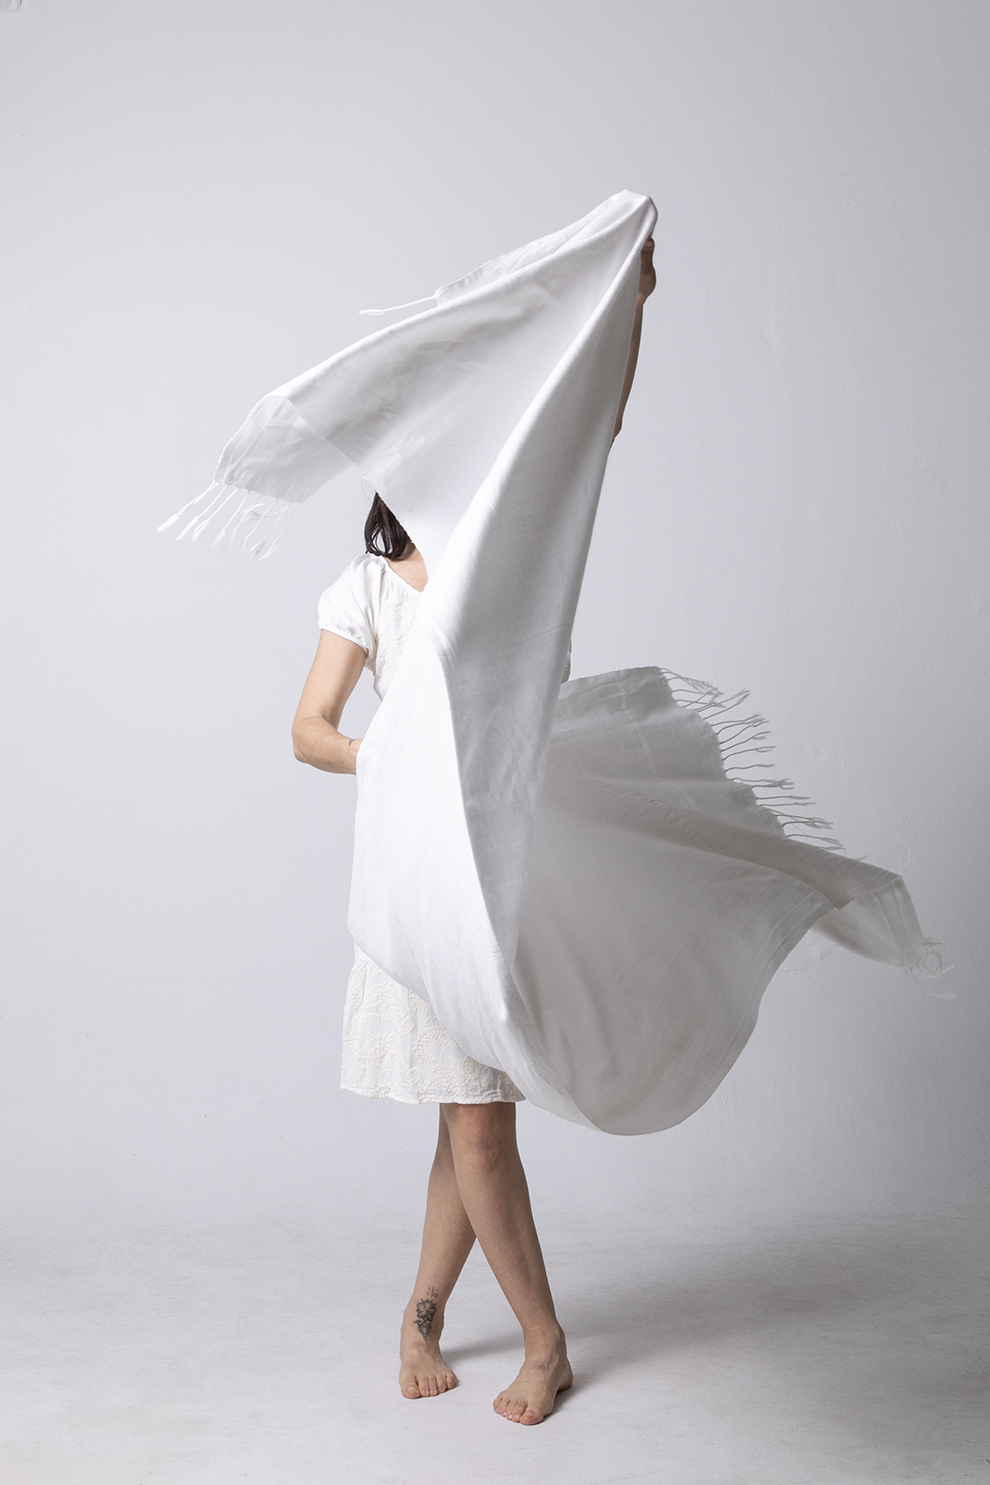
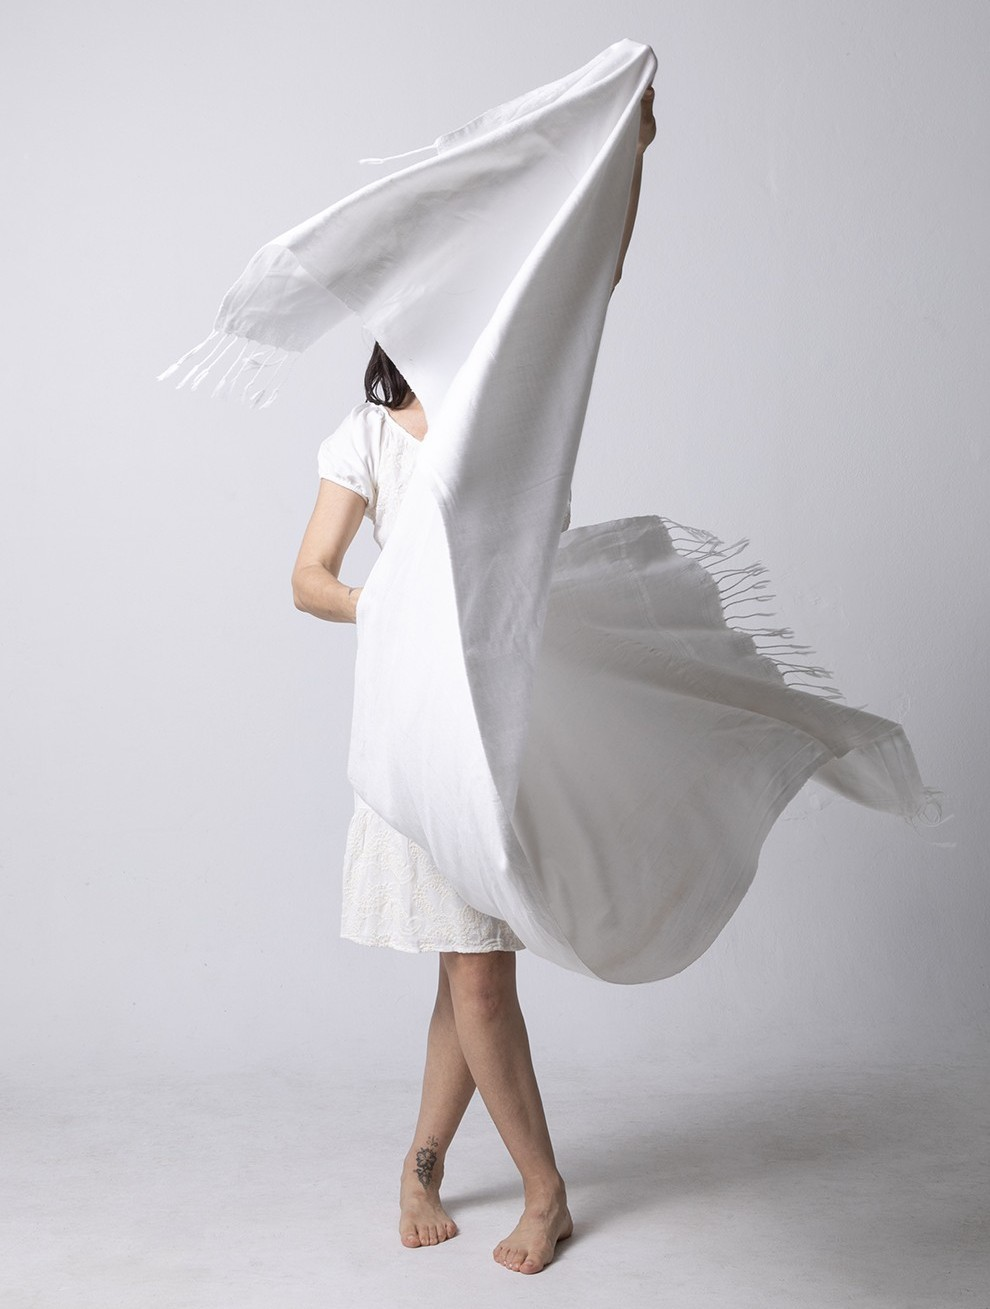
update size divs & images

Changed region(s): [[0.2424, 0.0306, 0.9394, 0.7945], [0.3939, 0.8556, 0.6364, 0.9778], [0.3939, 0.6417, 0.4545, 0.6723]]

diff --git a/html/conoceme.html b/html/conoceme.html
@@ -43,7 +43,7 @@
 
                     <!-- Menú (Flex en pantallas grandes) -->
                     <div id="menu"
-                        class="absolute top-full right-0 w-full text-xl md:text-2xl md:relative md:flex md:items-center md:justify-end bg-white overflow-hidden max-h-0 transition-all duration-300 ease-in-out md:max-h-full md:w-auto md:top-0 md:static">
+                        class="absolute top-full right-0 w-full text-xl lg:text-2xl md:relative md:flex md:items-center md:justify-end bg-white overflow-hidden max-h-0 transition-all duration-300 ease-in-out md:max-h-full md:w-auto md:top-0 md:static">
                         <a href="../index.html" class="block font-bold text-center p-2 menu-items md:px-4">Inicio</a>
                         <a href="../html/servicios.html"
                             class="block font-bold text-center p-2 menu-items md:px-4">Servicios</a>
@@ -58,17 +58,17 @@
 
         </header>
 
-        <main id="main-conoceme" class="px-3">
+        <main id="main-conoceme" class="px-3 md:px-20 lg:px-32 xl:px-44">
 
             <h1 class="titulo-parrafo-1 text-3xl p-2 font-bold text-center mb-3 rounded-xl">
                 Conoceme
             </h1>
 
-            <img src="../media/conoceme3.jpeg" alt="">
+            <img src="../media/conoceme1.jpeg" alt="jessi carmona foto" class="mx-auto lg:w-2/3">
 
             <br>
 
-            <p class="text-justify">
+            <p class="text-justify lg:text-lg">
                 ¡Hola! Soy <em>Jessica María Carmona</em>; desde hace muchos años que he decidido abrazar mi energía creativa y
                 también emprendedora. La combinación de la creatividad de mi madre y la fortaleza que me transmitió mi
                 padre han enriquecido mi desarrollo vital, valores y visión de las ideas y proyectos.
@@ -91,15 +91,18 @@
                 florecería con el tiempo.
                 <br>
                 <br>
-                <img src="../media/conoceme1.jpg" alt="jessi carmona foto" class="w-50%">
+
+                <img src="../media/conoceme2.jpg" alt="jessi carmona foto" class="mx-auto lg:w-2/3">
+
+
                 <br>
                 Paralelamente me desempeñé como bailarina, profesora de danzas y métodos de acondicionamiento psicofísico. Durante un largo periodo aborde el campo de la salud a través de las artes expresivas, la conciencia corporal y la danzaterapia. Participe y también organicé talleres, charlas, seminarios, workshops nacionales e internacionales.
                 <br>
                 <br>
-                A raíz de un desequilibrio físico que marca un antes y un después en mi estilo de vida, empiezo a profundizar en el yoga y la meditación para recuperar el equilibrio interior. Me certifico como Profesora bajo la guía de maestros de la rica tradición y sistemas de enseñanza de India, quienes me han incentivado a compartir este camino con otros.
+                A raíz de un desequilibrio físico que marca un antes y un después en mi estilo de vida, empiezo a profundizar en el yoga y la meditación para recuperar el equilibrio interior. Me certifico como maestra de danzas bajo la guía de maestros de la rica tradición y sistemas de enseñanza de India, quienes me han incentivado a compartir este camino con otros durante 15 años.
                 <br>
                 <br>
-                En la actualidad, integro todos estos años de proceso de consciencia, más mi trabajo y estudio con el Árbol Genealógico. Comprendiendo y amando mi autobiografía; dejando de definirme e identificarme con una única identidad para contribuir desde el sentir y la totalidad que somos, promoviendo el empoderamiento y transformación personal.
+                En la actualidad, integro todos estos años de proceso de consciencia, mi labor como Acompañante Terapeutica y en el estudio del Arbol Genealogico. Comprendiendo y amando mi autobiografía; dejando de definirme e identificarme con una única identidad para contribuir desde el sentir y la totalidad que somos, promoviendo el empoderamiento y transformación personal.
                 <br>
                 <br>
                 Si has llegado hasta aquí, te invito a ser parte del Proyecto <strong>CreAndo Armonía en ComUnidad</strong>, donde te guio en el viaje que yo misma he transitando y sigo comprobando hacia una vida más plena a nuestro alcance y en armonía con nosotros mismos/as.

diff --git a/html/servicios.html b/html/servicios.html
@@ -43,7 +43,7 @@
 
                     <!-- Menú (Flex en pantallas grandes) -->
                     <div id="menu"
-                        class="absolute top-full right-0 w-full text-xl md:text-2xl md:relative md:flex md:items-center md:justify-end bg-white overflow-hidden max-h-0 transition-all duration-300 ease-in-out md:max-h-full md:w-auto md:top-0 md:static">
+                        class="absolute top-full right-0 w-full text-xl lg:text-2xl md:relative md:flex md:items-center md:justify-end bg-white overflow-hidden max-h-0 transition-all duration-300 ease-in-out md:max-h-full md:w-auto md:top-0 md:static">
                         <a href="../index.html" class="block font-bold text-center p-2 menu-items md:px-4">Inicio</a>
                         <a href="#" class="block font-bold text-center p-2 menu-items md:px-4">Servicios</a>
                         <a href="../html/consultoria.html"
@@ -58,7 +58,7 @@
 
         </header>
 
-        <main id="main-conoceme" class="p-3 pt-0">
+        <main id="main-conoceme" class="p-3 pt-0 md:px-20 lg:px-32 xl:px-44">
 
             <h1 class="titulo-parrafo-1 text-3xl p-2 font-bold text-center rounded-xl">
                 Servicios
@@ -76,7 +76,7 @@
 
             <br>
 
-            <div class="text-center frase-servicios">
+            <div class="text-center frase-servicios lg:text-lg">
                 <span>
                     <strong>"Mi búsqueda espiritual me ha permitido redescubrir mi esencia más genuina y la manera de
                         estar en el mundo, encontrar la verdadera paz y amor que residen en mí."
@@ -87,7 +87,7 @@
 
             <br>
 
-            <img src="../media/servicios4.jpg" alt="">
+            <img src="../media/servicios1.jpg" alt="jessi carmona foto" class="mx-auto lg:w-2/3">
 
             <h2 class="my-2 text-center">
                 TALLER VIVENCIAL GRUPAL
@@ -110,7 +110,7 @@
 
             <hr>
 
-            <div class="text-center frase-servicios">
+            <div class="text-center frase-servicios lg:text-lg">
                 <br>
                 <span>
                     <strong>"Al conectar con mis raíces y mi verdadero potencial, logré liberarme de viejas
@@ -123,7 +123,7 @@
 
             <br>
 
-            <img src="../media/servicios2.jpg" alt="">
+            <img src="../media/servicios2.jpg" alt="jessi carmona foto" class="mx-auto lg:w-2/3">
 
             <h2 class="my-2 text-center">
                 TALLER VIVENCIAL GRUPAL
@@ -146,7 +146,7 @@
 
             <hr>
 
-            <div class="text-center frase-servicios">
+            <div class="text-center frase-servicios lg:text-lg">
                 <br>
                 <span>
                     <strong>"El autoconocimiento y el autocuidado, junto con la comprensión de los ciclos naturales y la
@@ -159,7 +159,7 @@
 
             <br>
 
-            <img src="../media/servicios3.jpeg" alt="jess saltando y sonriendo">
+            <img src="../media/servicios3.jpeg" alt="jessi carmona foto" class="mx-auto lg:w-2/3">
 
             <h2 class="my-2 text-center">
                 TALLER VIVENCIAL GRUPAL

diff --git a/index.html b/index.html
@@ -43,7 +43,7 @@
 
                     <!-- Menú (Flex en pantallas grandes) -->
                     <div id="menu"
-                        class="absolute top-full right-0 w-full text-xl md:text-2xl md:relative md:flex md:items-center md:justify-end bg-white overflow-hidden max-h-0 transition-all duration-300 ease-in-out md:max-h-full md:w-auto md:top-0 md:static">
+                        class="absolute top-full right-0 w-full text-xl lg:text-2xl md:relative md:flex md:items-center md:justify-end bg-white overflow-hidden max-h-0 transition-all duration-300 ease-in-out md:max-h-full md:w-auto md:top-0 md:static">
                         <a href="#" class="block font-bold text-center p-2 menu-items md:px-4">Inicio</a>
                         <a href="./html/servicios.html"
                             class="block font-bold text-center p-2 menu-items md:px-4">Servicios</a>
@@ -61,15 +61,15 @@
 
         <main id="main-inicio">
 
-            <div class="px-3 md:px-12">
+            <div class="px-3 md:px-20 lg:px-32 xl:px-44">
                 <div
                     class="bg-[url('./media/home1.jpg')] relative bg-cover md:bg-contain md:bg-no-repeat bg-center h-screen inset-0 flex flex-col justify-start text-white pt-20">
 
-                    <h1 class="texto-principal-home text-2xl font-bold text-left mb-6 pl-6">
+                    <h1 class="texto-principal-home text-2xl font-bold text-left mb-6 pl-6 md:pl-14 lg:pl-24 xl:pl-54">
                         "EL VIAJE MÁS LARGO <br> COMIENZA CON <br> UN PRIMER PASO"
                     </h1>
 
-                    <div class="w-full text-left pl-6">
+                    <div class="w-full text-left pl-6 md:pl-14 lg:pl-24 xl:pl-54">
                         <a class="btn-home mb-3 p-3 rounded-xl font-semibold w-auto inline-block"
                             href="./html/consultoria.html">
                             QUIERO EMPEZAR
@@ -79,18 +79,18 @@
                 </div>
             </div>
 
-            <div class="flex flex-col items-center justify-center p-3 md:px-12">
+            <div class="flex flex-col items-center justify-center p-3 md:px-20 lg:px-32 xl:px-44">
 
                 <h2 class="text-3xl mb-3 p-2 text-center font-bold titulo-parrafo-1 rounded-xl">
                     CreAndo Armonía Comunidad
 
                 </h2>
 
-                <h2 class="text-xl mb-3 p-2 text-center font-bold titulo-parrafo-2 rounded-xl">
+                <h2 class="text-xl lg:text-2xl mb-3 p-2 text-center font-bold titulo-parrafo-2 rounded-xl">
                     Espiritualidad & Creatividad para la Vida
                 </h2>
 
-                <p class="mb-3 text-center" id="main-home-texto">
+                <p class="mb-3 text-center lg:text-lg" id="main-home-texto">
                     Mi desempeño como Terapeuta, Meditadora e Instructora de Yoga ha sido el puente
                     para abrir los caminos hacia mi propio desarrollo personal y creativo. Un desafío, aprendizaje y
                     transformación constante en el Ser y en el Hacer, en la habilidad de compartir, acompañar y guiar a

diff --git a/html/consultoria.html b/html/consultoria.html
@@ -43,7 +43,7 @@
 
                     <!-- Menú (Flex en pantallas grandes) -->
                     <div id="menu"
-                        class="absolute top-full right-0 w-full text-xl md:text-2xl md:relative md:flex md:items-center md:justify-end bg-white overflow-hidden max-h-0 transition-all duration-300 ease-in-out md:max-h-full md:w-auto md:top-0 md:static">
+                        class="absolute top-full right-0 w-full text-xl lg:text-2xl md:relative md:flex md:items-center md:justify-end bg-white overflow-hidden max-h-0 transition-all duration-300 ease-in-out md:max-h-full md:w-auto md:top-0 md:static">
                         <a href="../index.html" class="block font-bold text-center p-2 menu-items md:px-4">Inicio</a>
                         <a href="../html/servicios.html"
                             class="block font-bold text-center p-2 menu-items md:px-4">Servicios</a>
@@ -58,7 +58,7 @@
 
         </header>
 
-        <main id="main-consultoria" class="px-3">
+        <main id="main-consultoria" class="px-3 md:px-20 lg:px-32 xl:px-44">
 
             <h1 class="titulo-parrafo-1 text-3xl p-2 font-bold text-center mb-3 rounded-xl">
                 Consultoría 1:1
@@ -70,9 +70,9 @@
 
             <hr>
 
-            <img src="../media/consultoria1.jpeg" alt="">
+            <img src="../media/consultoria1.jpeg" alt="jessi carmona foto" class="mx-auto lg:w-2/3">
 
-            <p class="text-justify mb-6">
+            <p class="text-justify mb-6 lg:text-lg">
                 <br>
                 ¡Hola! Me alegra mucho que estés aquí y que te intereses en los Encuentros Individuales. Este espacio está sentido y pensado para vos, para que puedas explorar tus inquietudes, lo que sientes y las circunstancias que has vivido para comprender tu presente. Es un lugar seguro donde juntos/as podemos trabajar en tu bienestar integral, abarcando todas las dimensiones de tu vida.
                 <br>
@@ -88,7 +88,7 @@
                 <br>
                 <br>
 
-                <img src="../media/home1.jpg" alt="">
+                <img src="../media/consultoria2.jpg" alt="jessi carmona foto" class="mx-auto lg:w-2/3">
 
                 <br>
                 A menudo, actuamos y sentimos sin comprender del todo por qué. Es como si estuviéramos siguiendo un guion preestablecido, repitiendo programas y lealtades inconscientes que pueden estar limitando nuestro potencial, crecimiento y bienestar. Pero la buena noticia es que, al traer esta información a la luz de la conciencia, tenemos la oportunidad de transformarla y generar nuevas respuestas en la vida.

diff --git a/html/contactame.html b/html/contactame.html
@@ -43,7 +43,7 @@
 
                     <!-- Menú (Flex en pantallas grandes) -->
                     <div id="menu"
-                        class="absolute top-full right-0 w-full text-xl md:text-2xl md:relative md:flex md:items-center md:justify-end bg-white overflow-hidden max-h-0 transition-all duration-300 ease-in-out md:max-h-full md:w-auto md:top-0 md:static">
+                        class="absolute top-full right-0 w-full text-xl lg:text-2xl md:relative md:flex md:items-center md:justify-end bg-white overflow-hidden max-h-0 transition-all duration-300 ease-in-out md:max-h-full md:w-auto md:top-0 md:static">
                         <a href="../index.html" class="block font-bold text-center p-2 menu-items md:px-4">Inicio</a>
                         <a href="../html/servicios.html"
                             class="block font-bold text-center p-2 menu-items md:px-4">Servicios</a>
@@ -58,18 +58,18 @@
 
         </header>
 
-        <main id="main-conoceme" class="px-3">
+        <main id="main-conoceme" class="px-3 md:px-20 lg:px-32 xl:px-44">
 
             <h1 class="titulo-parrafo-1 text-3xl p-2 mb-3 font-bold text-center rounded-xl">
                 Contactame
             </h1>
 
             <div>
-                <img src="../media/contactame1.jpg" alt="mujer meditando de fonto mar y piedras">
+                <img src="../media/contactame1.jpg" alt="jessi carmona foto" class="mx-auto lg:w-2/3">
 
                 <br>
 
-                <p class="text-center">
+                <p class="text-center lg:text-lg">
                     Mi propósito es crear un espacio seguro y acogedor donde puedas explorar tu interior y desarrollar
                     una mayor conciencia de vos mismo/a. Si te gustaría que trabajemos juntos y te acompañe en tu
                     proceso de crecimiento, no dudes en enviarme un mensaje y seguirme en las redes sociales:
@@ -77,7 +77,7 @@
 
                 <br>
 
-                <p class="text-center">
+                <p class="text-center lg:text-lg">
                     <strong>cacomunidad.online@gmail.com</strong>
                 </p>
             </div>
